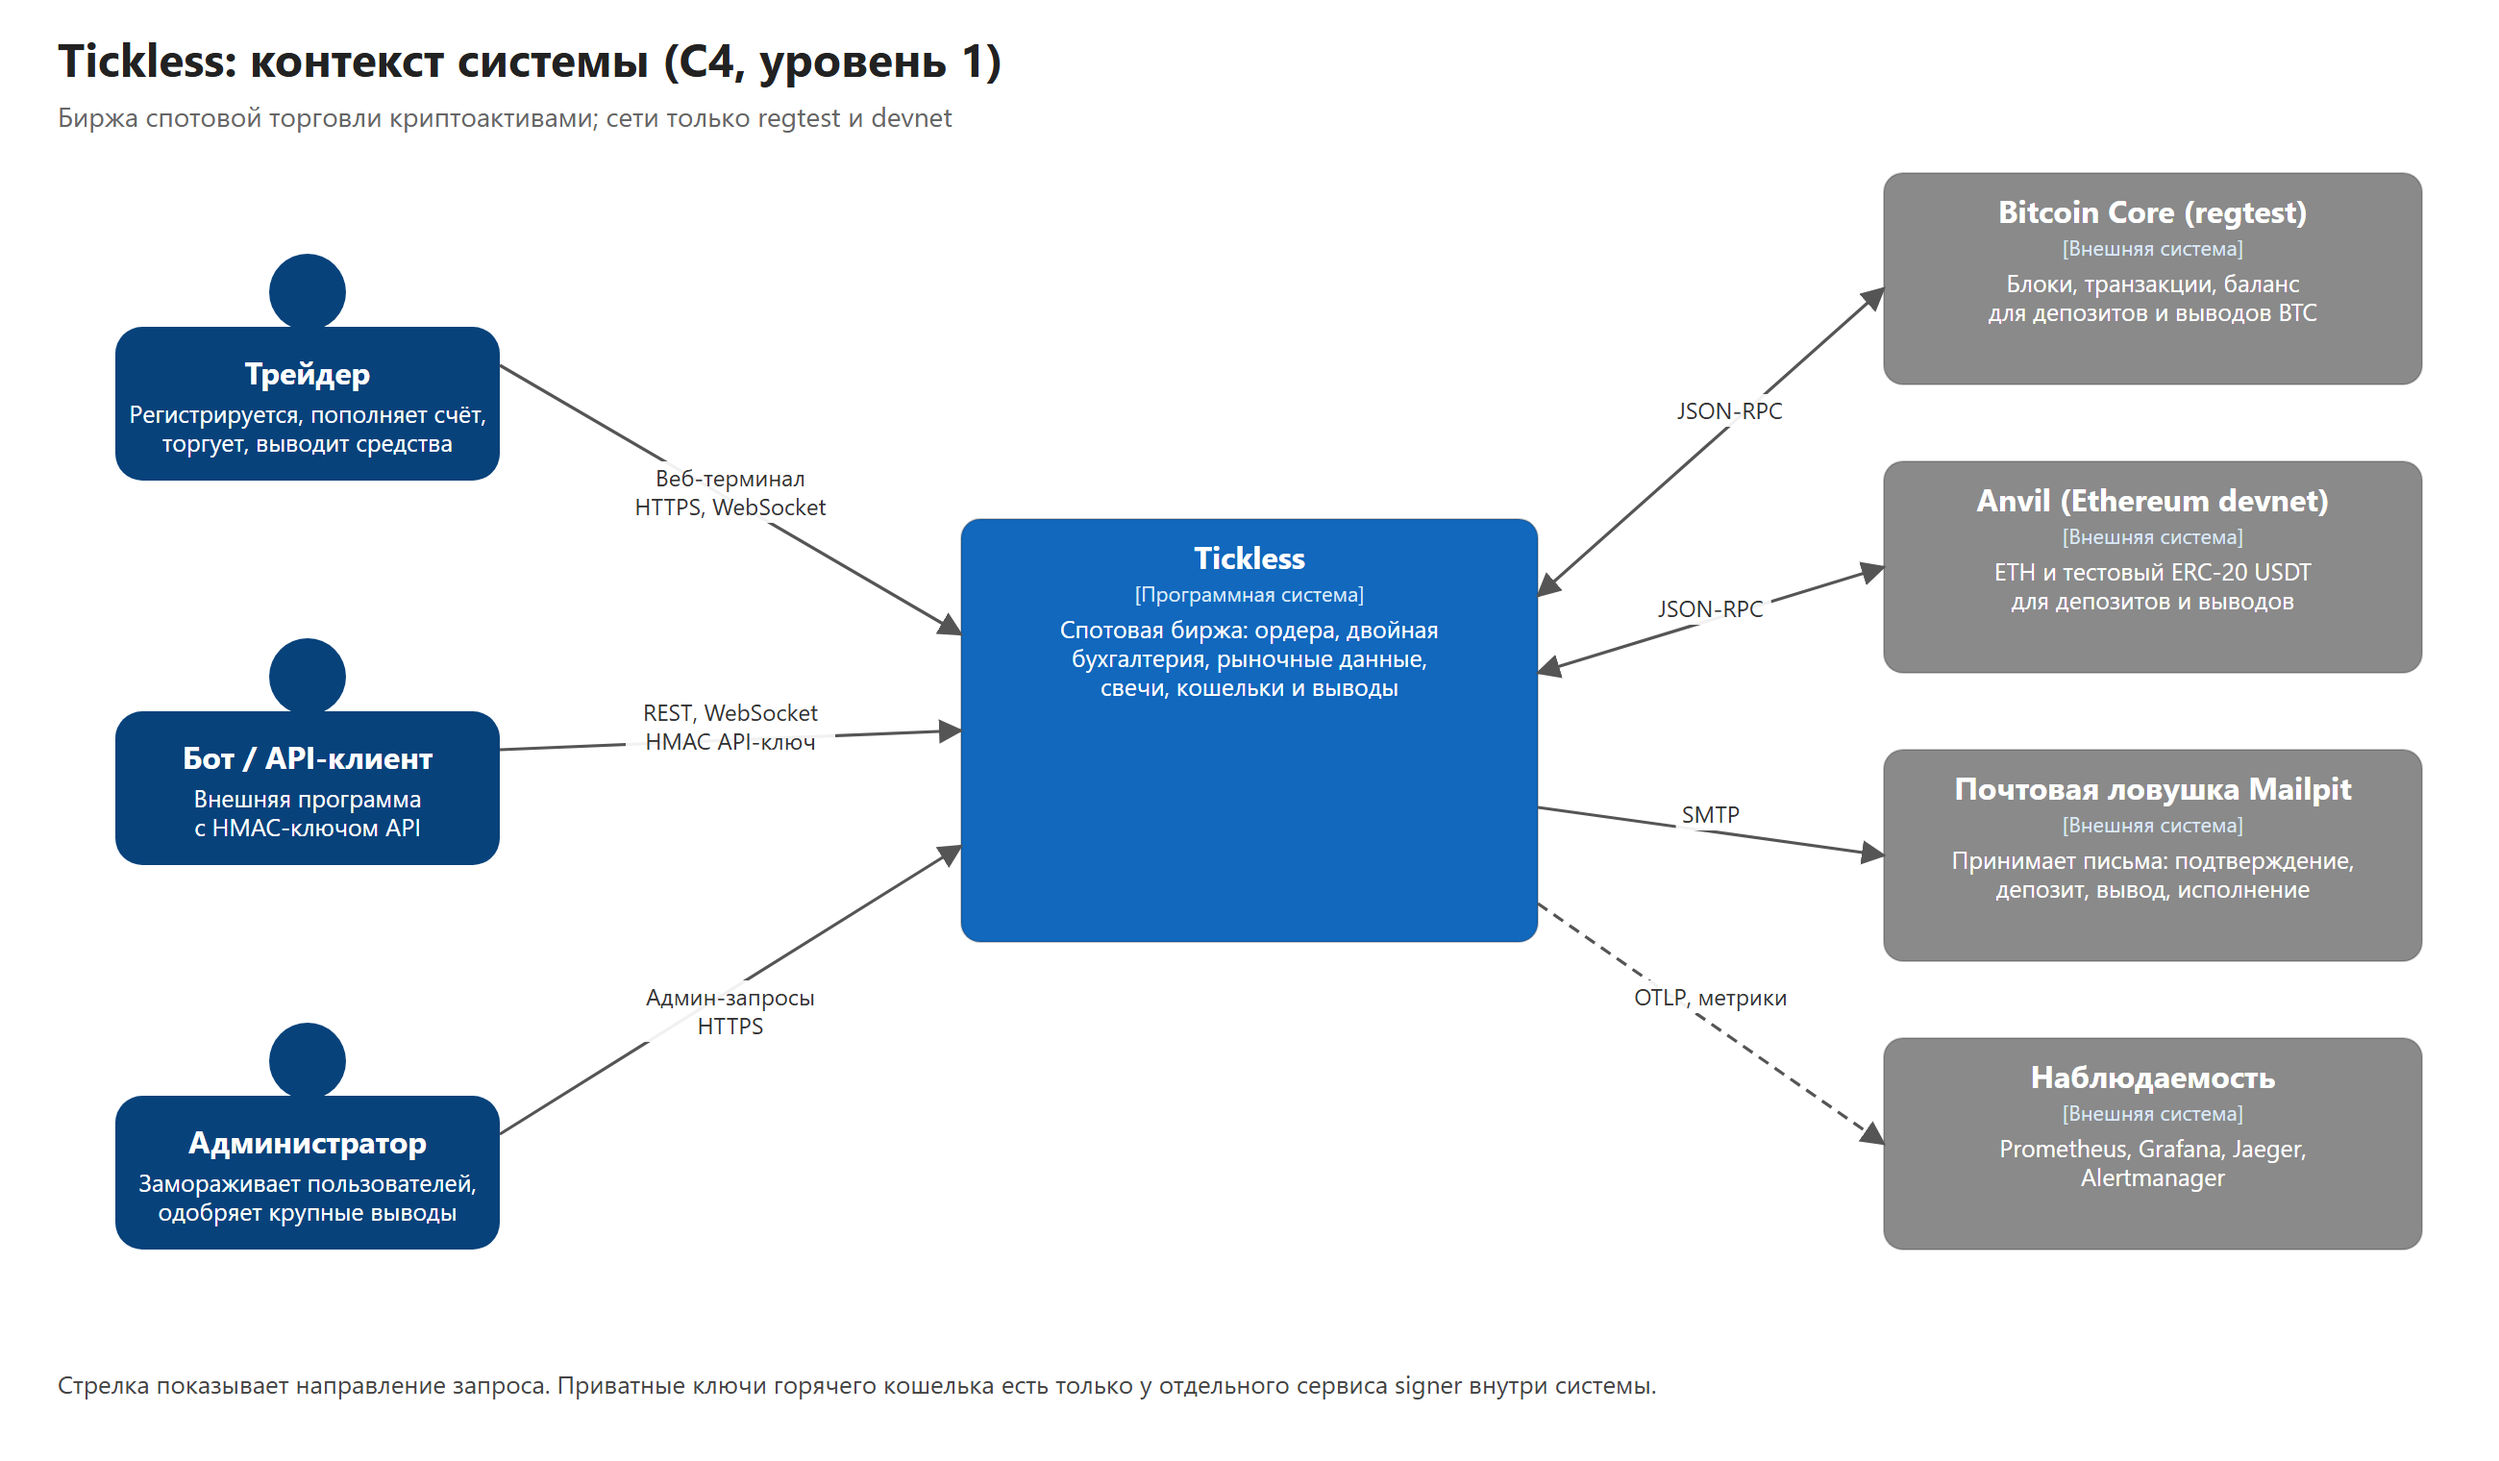
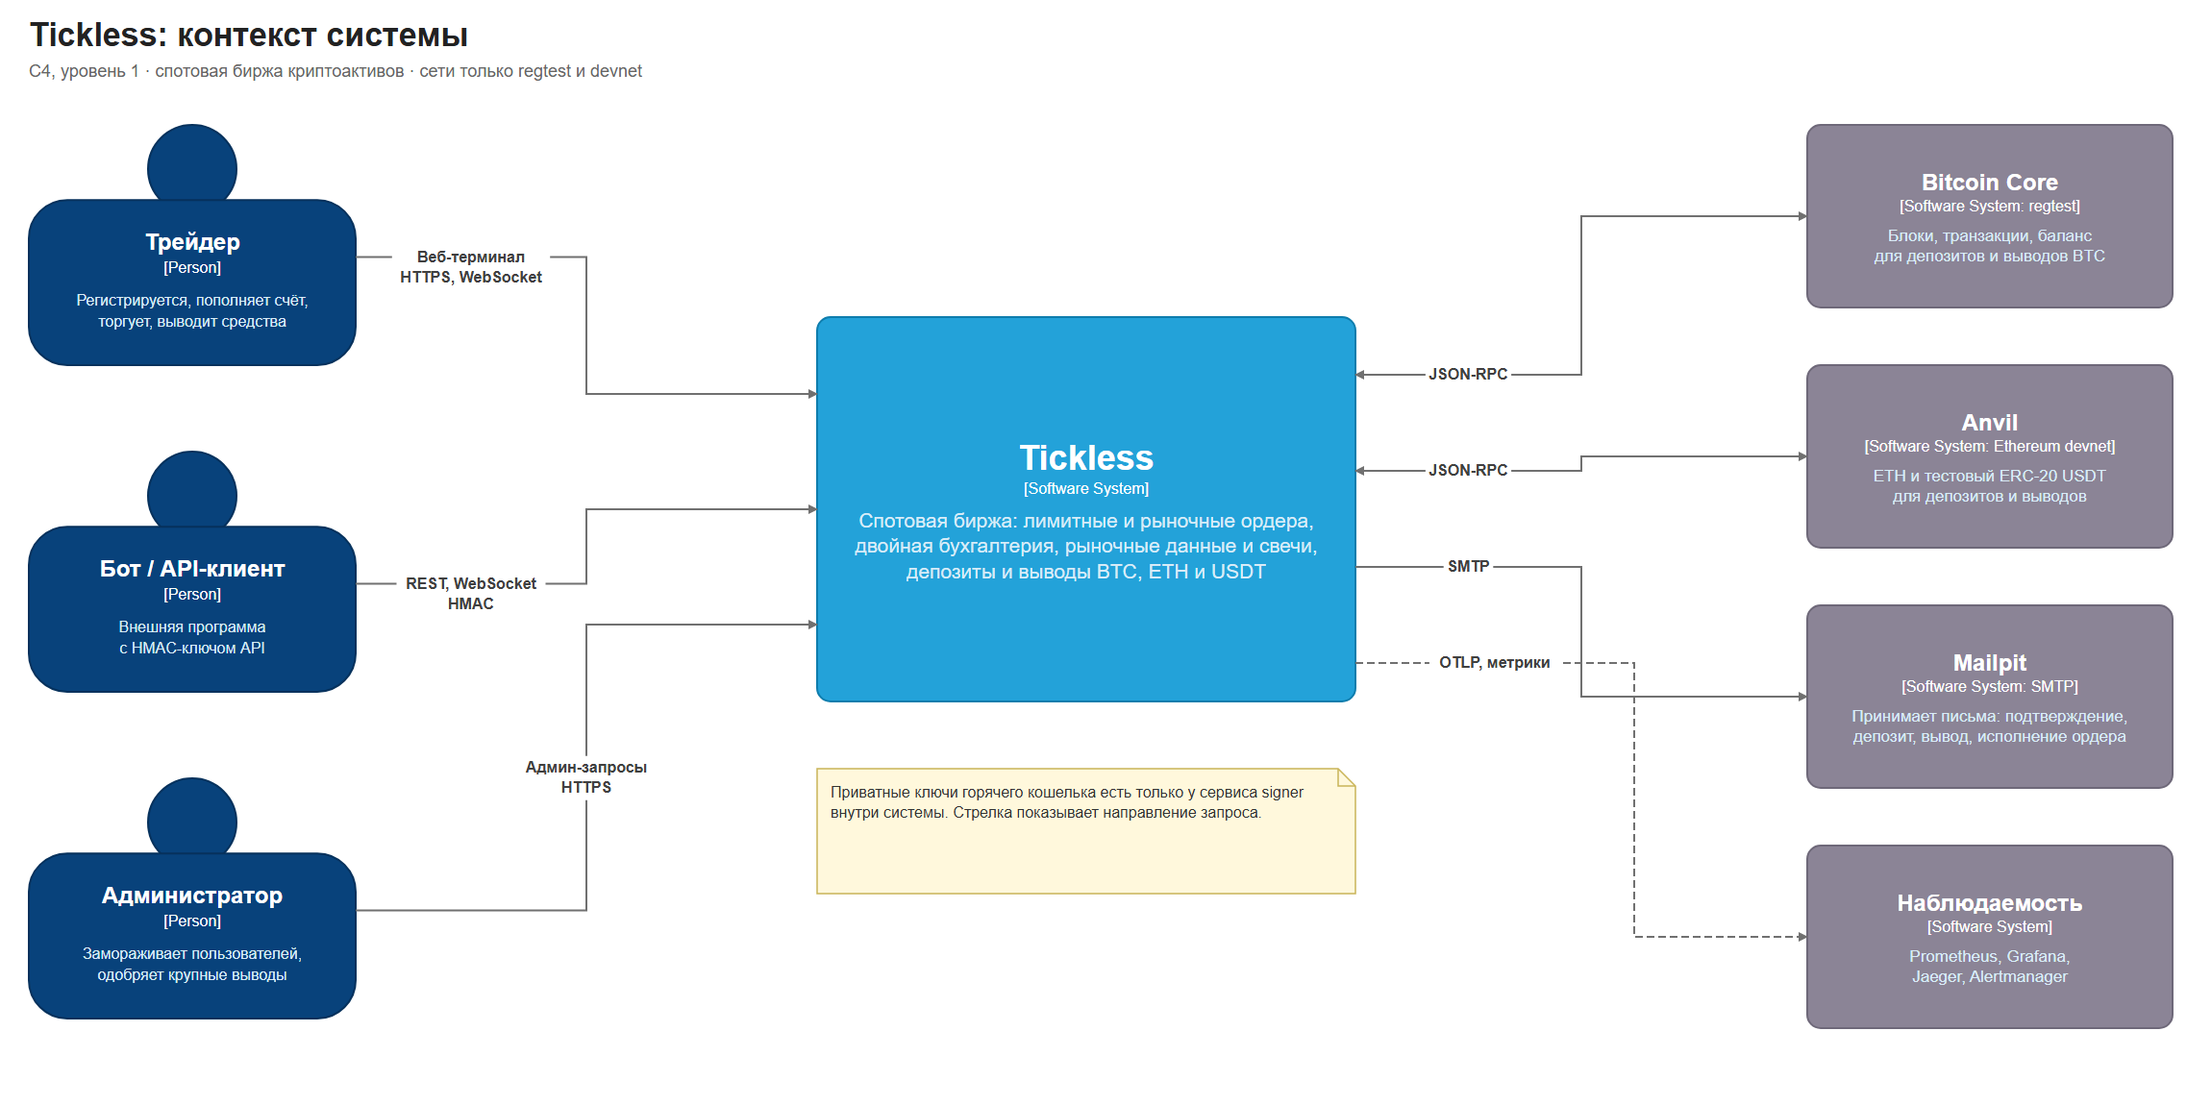
docs: C4 diagrams redrawn in the draw.io C4 style, with .drawio sources

diff --git a/README.md b/README.md
@@ -99,7 +99,7 @@ curl -s -XPOST localhost:8080/v1/orders -H "Authorization: Bearer $TOKEN" \
 
 ### Диаграммы
 
-**C4 — архитектура Tickless.** Три уровня: контекст, контейнеры, развёртывание. Исходники в SVG лежат в [docs/c4/](docs/c4/).
+**C4 — архитектура Tickless.** Три уровня: контекст, контейнеры, развёртывание. Исходники `.drawio` лежат в [docs/c4/](docs/c4/).
 
 **Контекст.** Кто пользуется биржей и с какими внешними системами она говорит.
 

diff --git a/docs/c4/README.md b/docs/c4/README.md
@@ -1,3 +1,3 @@
 # C4
 
-Три диаграммы: контекст, контейнеры, развёртывание. Исходники в SVG, PNG отрисованы из них в двойном разрешении.
+Три диаграммы: контекст, контейнеры, развёртывание. Исходники в формате draw.io (`.drawio`), рядом PNG для README.
